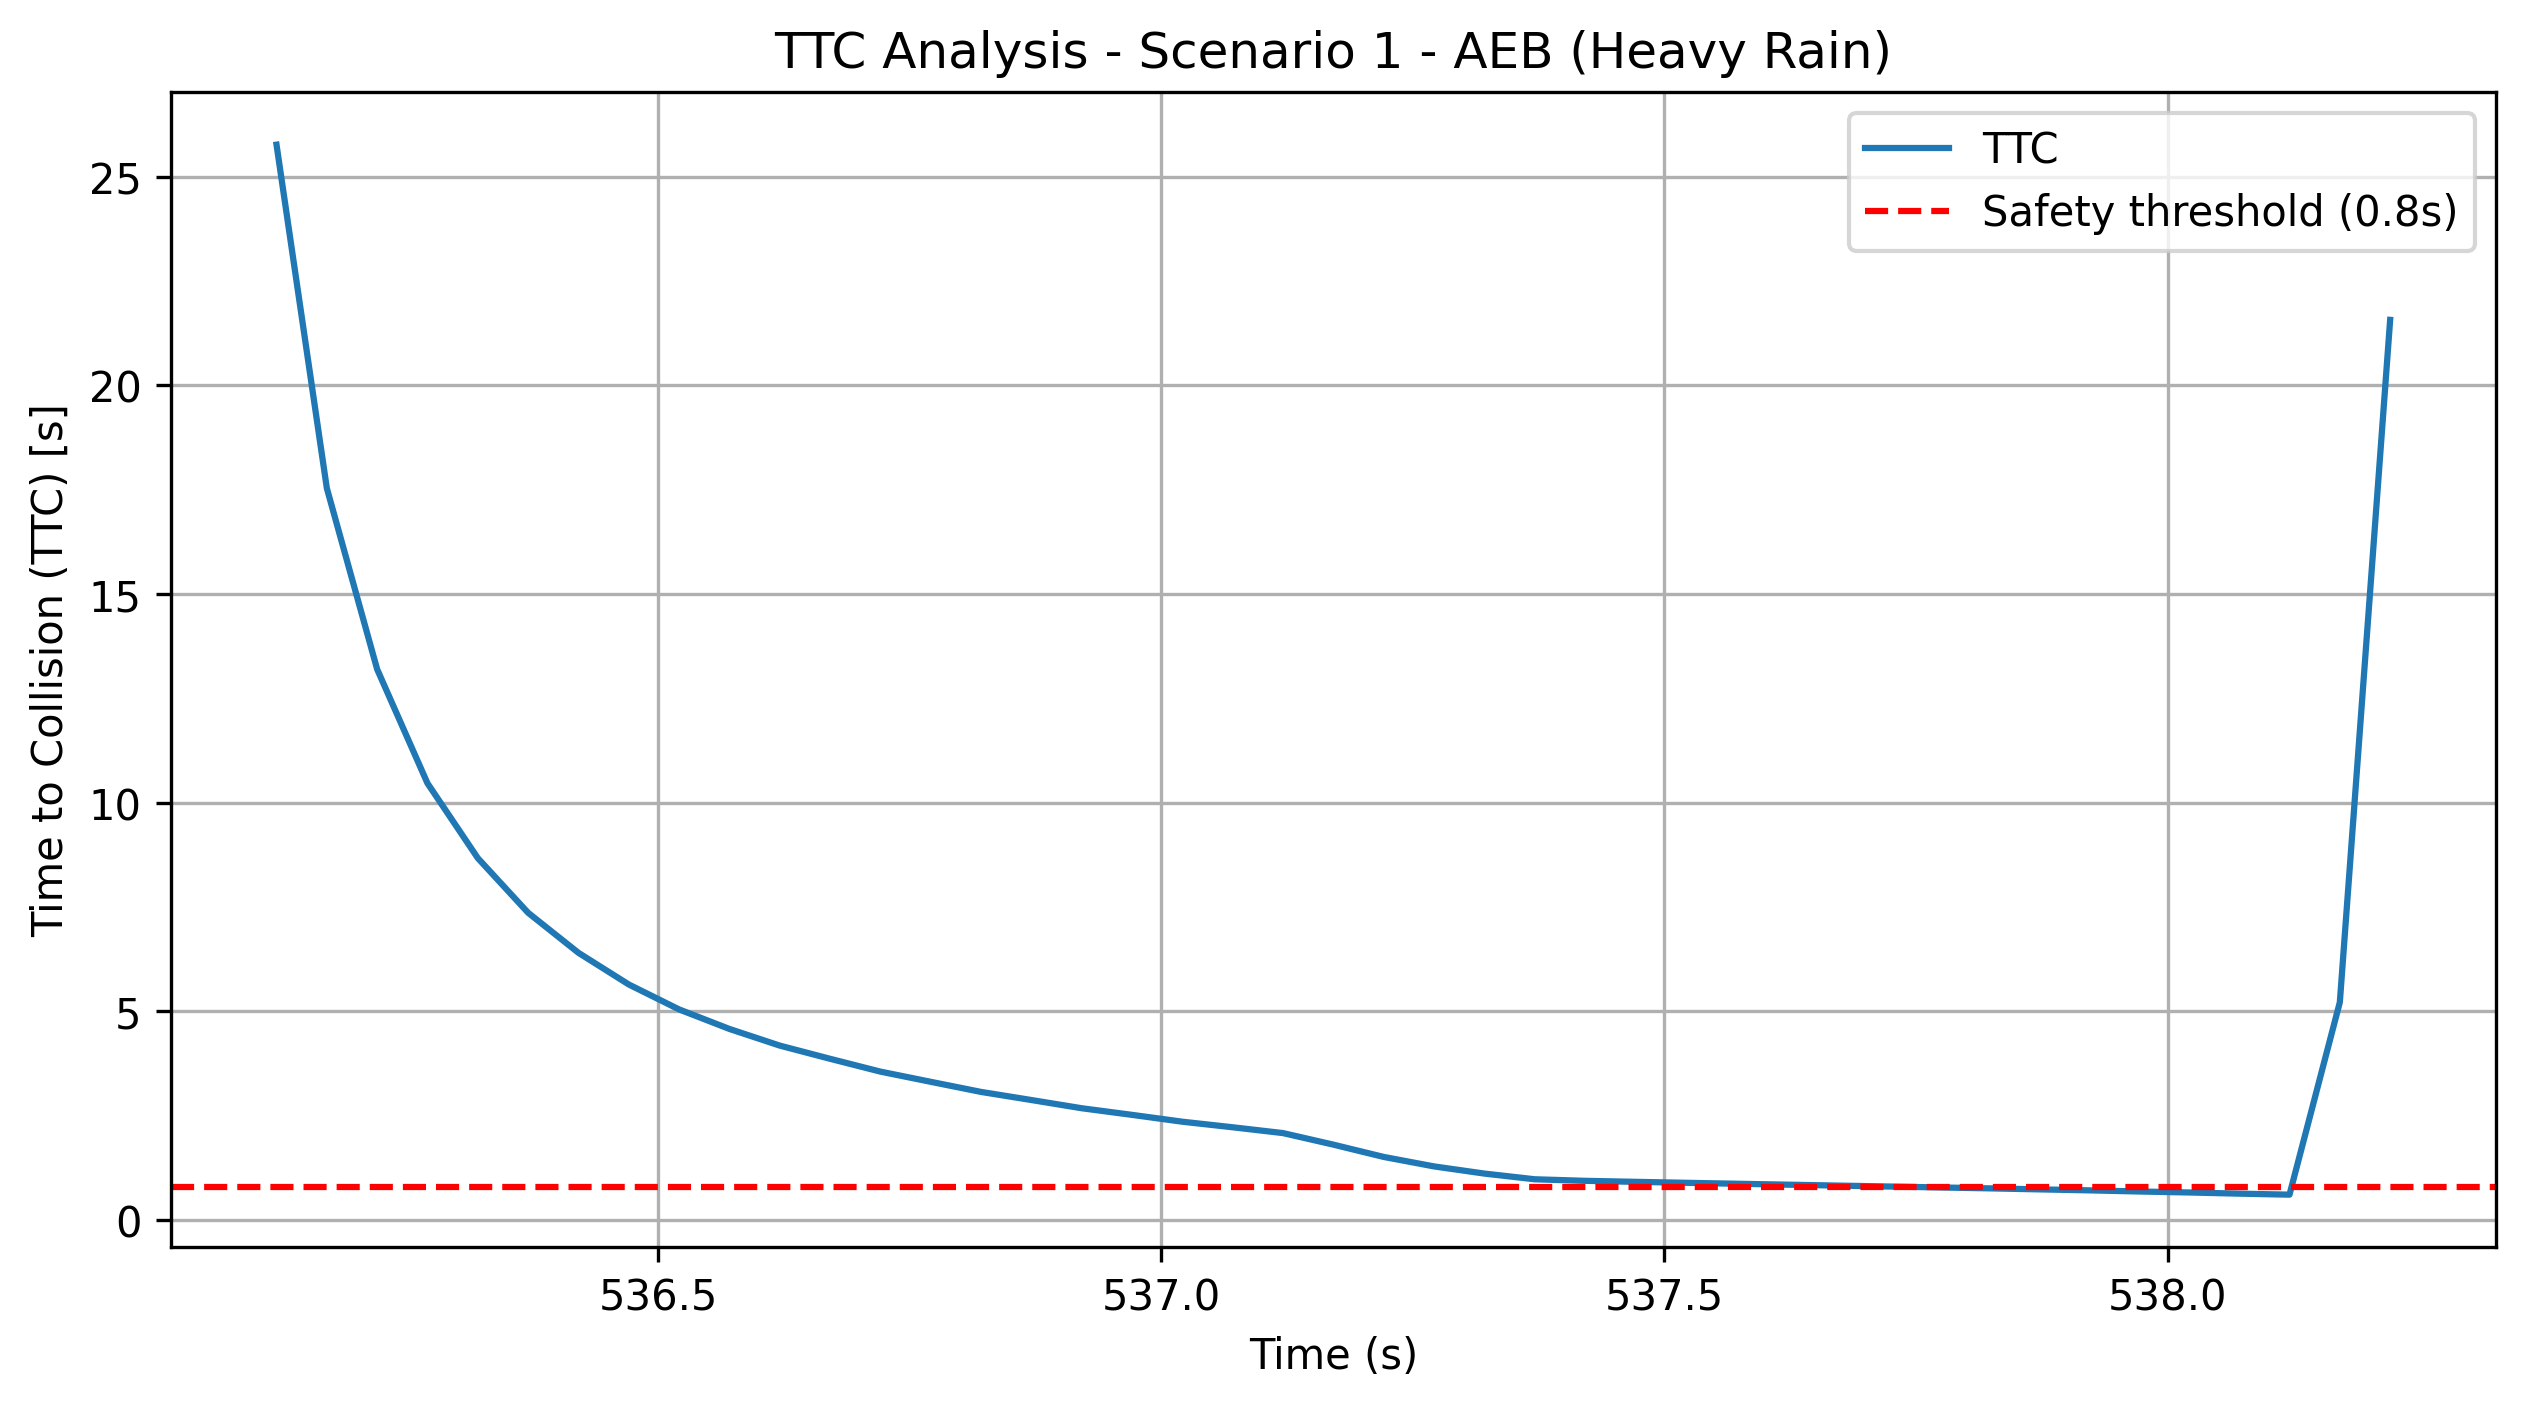
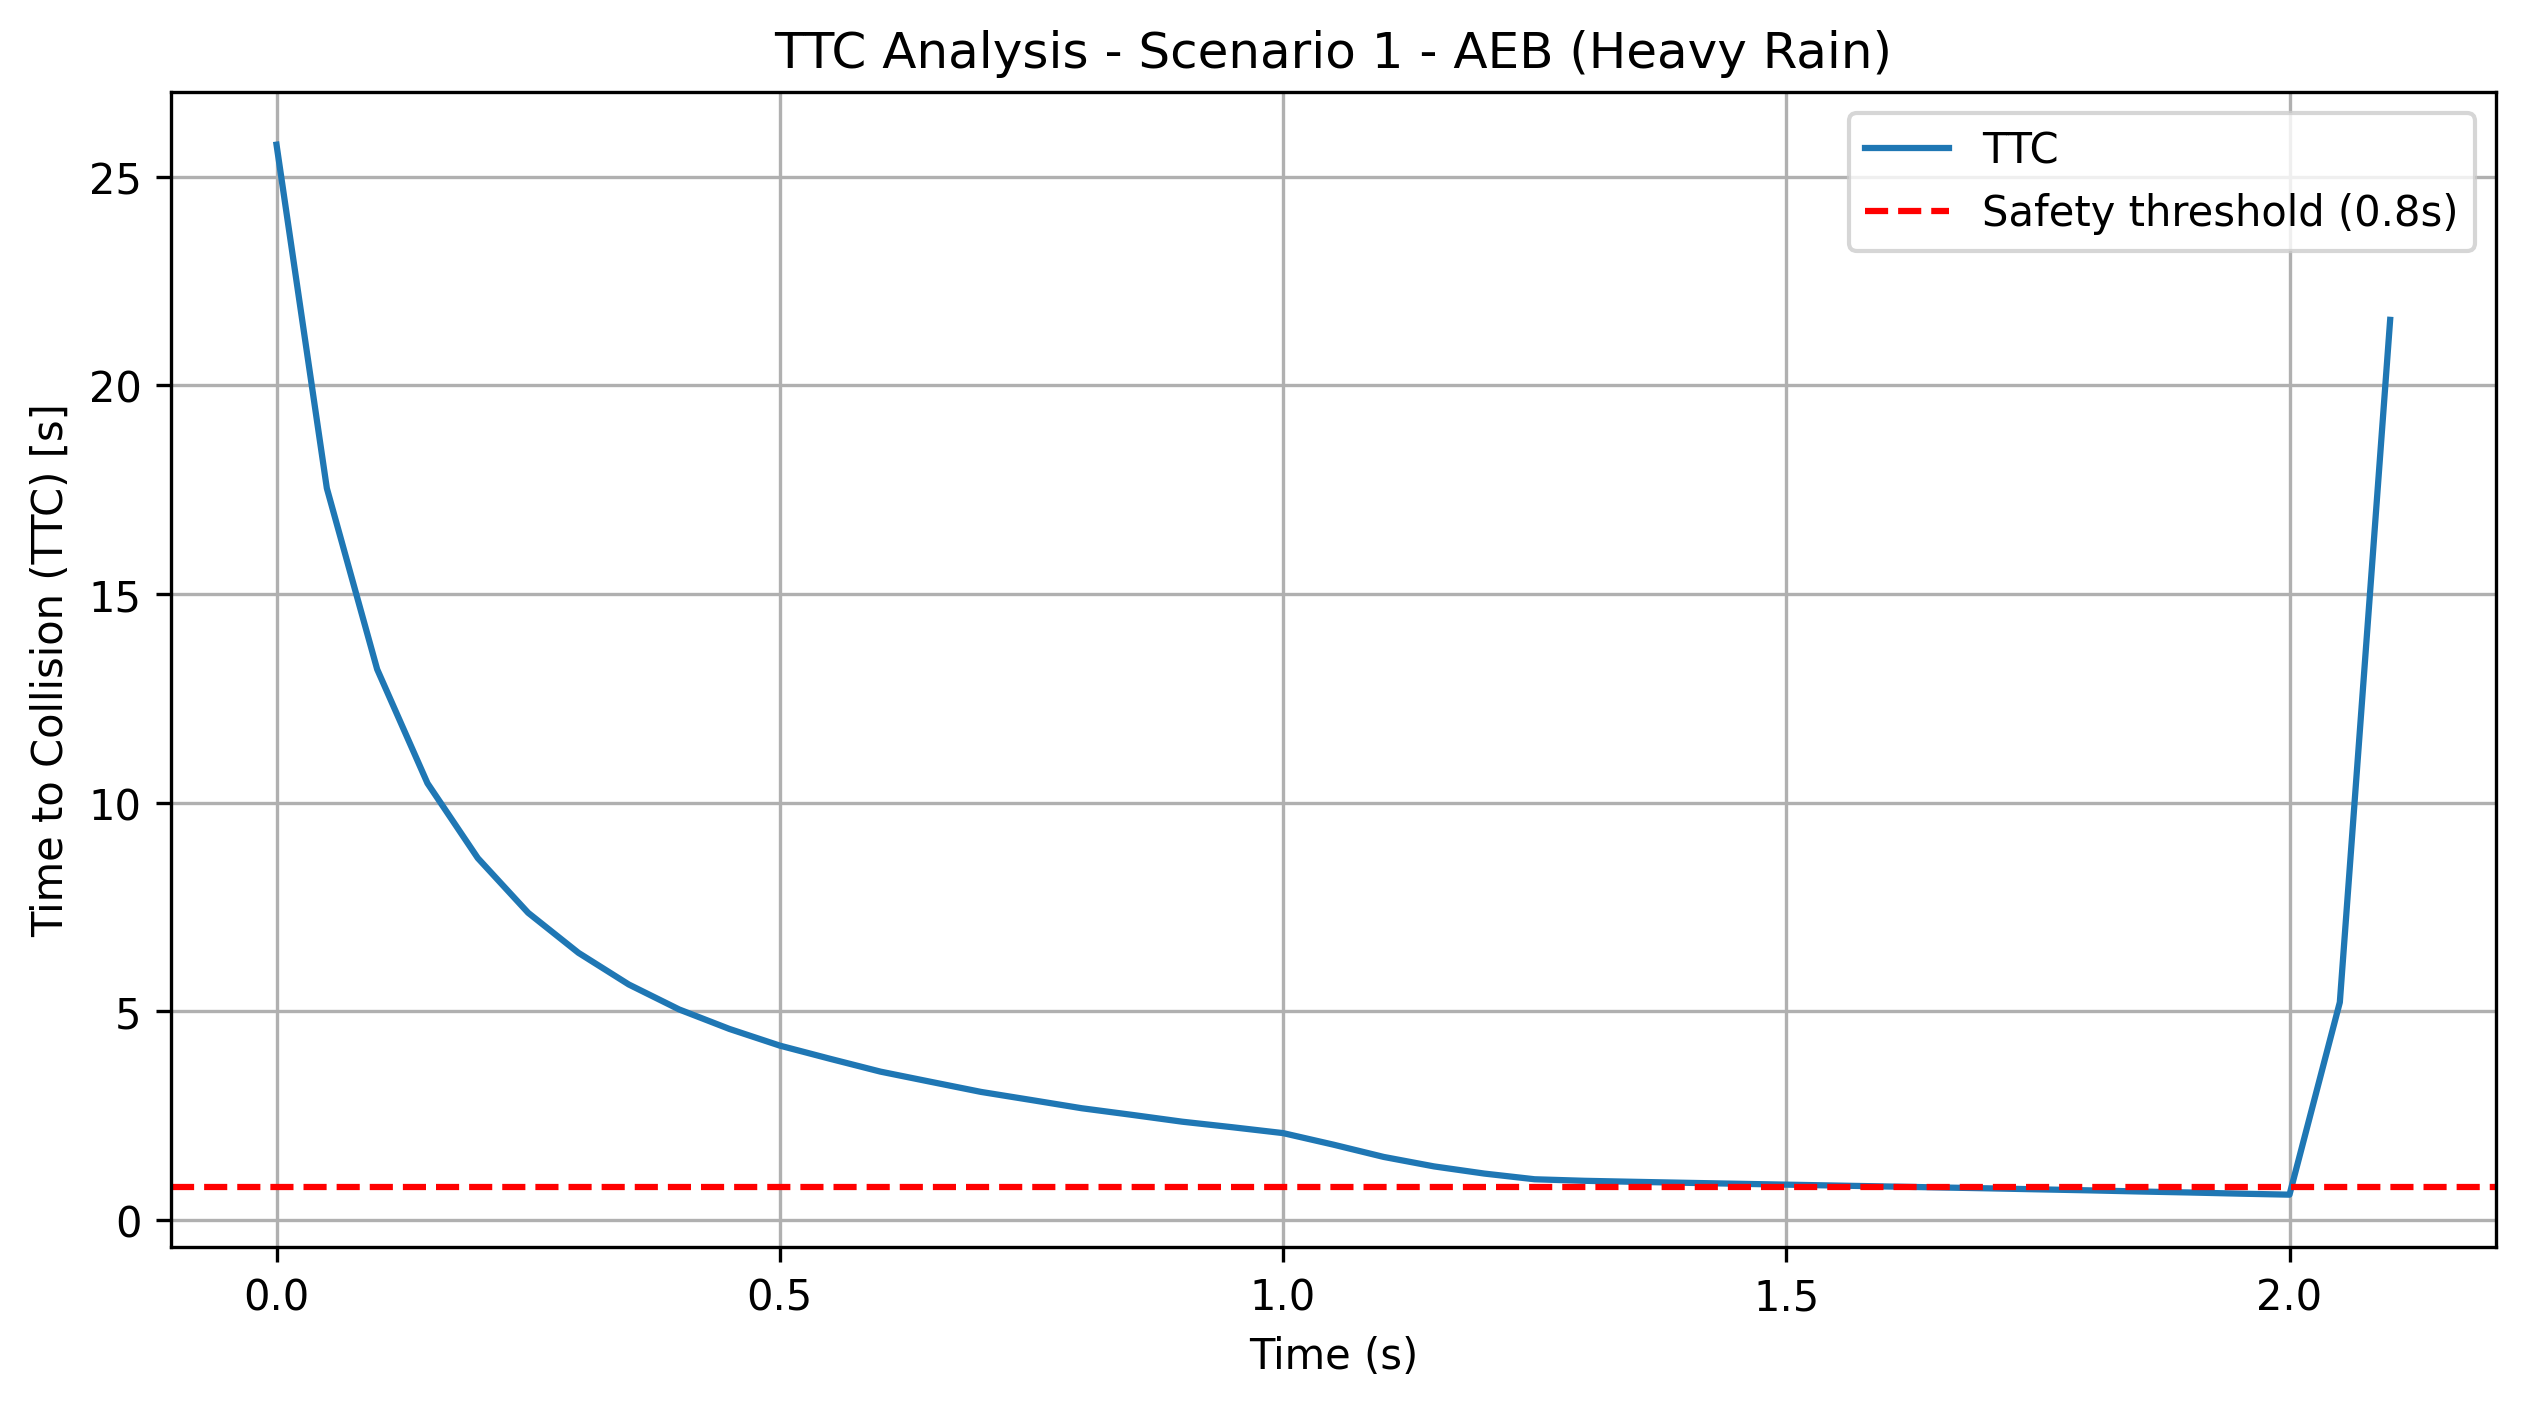
refactor: normalize timestamps to start from zero in TTC calculations and result exports

diff --git a/kpis/run_kpis_s01.py b/kpis/run_kpis_s01.py
@@ -37,7 +37,7 @@ for condition, label in zip(conditions, labels):
         f'data/results/s01_lead_{condition}.csv'
     )
     # extract only timestamp and ttc columns for plotting
-    plot_df = ttc_df[['timestamp_ego', 'ttc']].rename(columns={'timestamp_ego': 'timestamp'})
+    plot_df = ttc_df[['timestamp', 'ttc']]
     plot_df.to_csv(f'data/results/s01_ttc_{condition}.csv', index=False)
     plot_ttc(
         f'data/results/s01_ttc_{condition}.csv',

diff --git a/kpis/ttc_calculator.py b/kpis/ttc_calculator.py
@@ -33,4 +33,5 @@ def calculate_ttc(ego_csv, lead_csv):
     # remove infinite TTC values before returning
     df = df[df['ttc'] != np.inf]
     df = df[df['ttc'] < 30]  # cap at 30 seconds (anything higher is not meaningful)
+    df['timestamp'] = df['timestamp_ego'] - df['timestamp_ego'].min()
     return df
